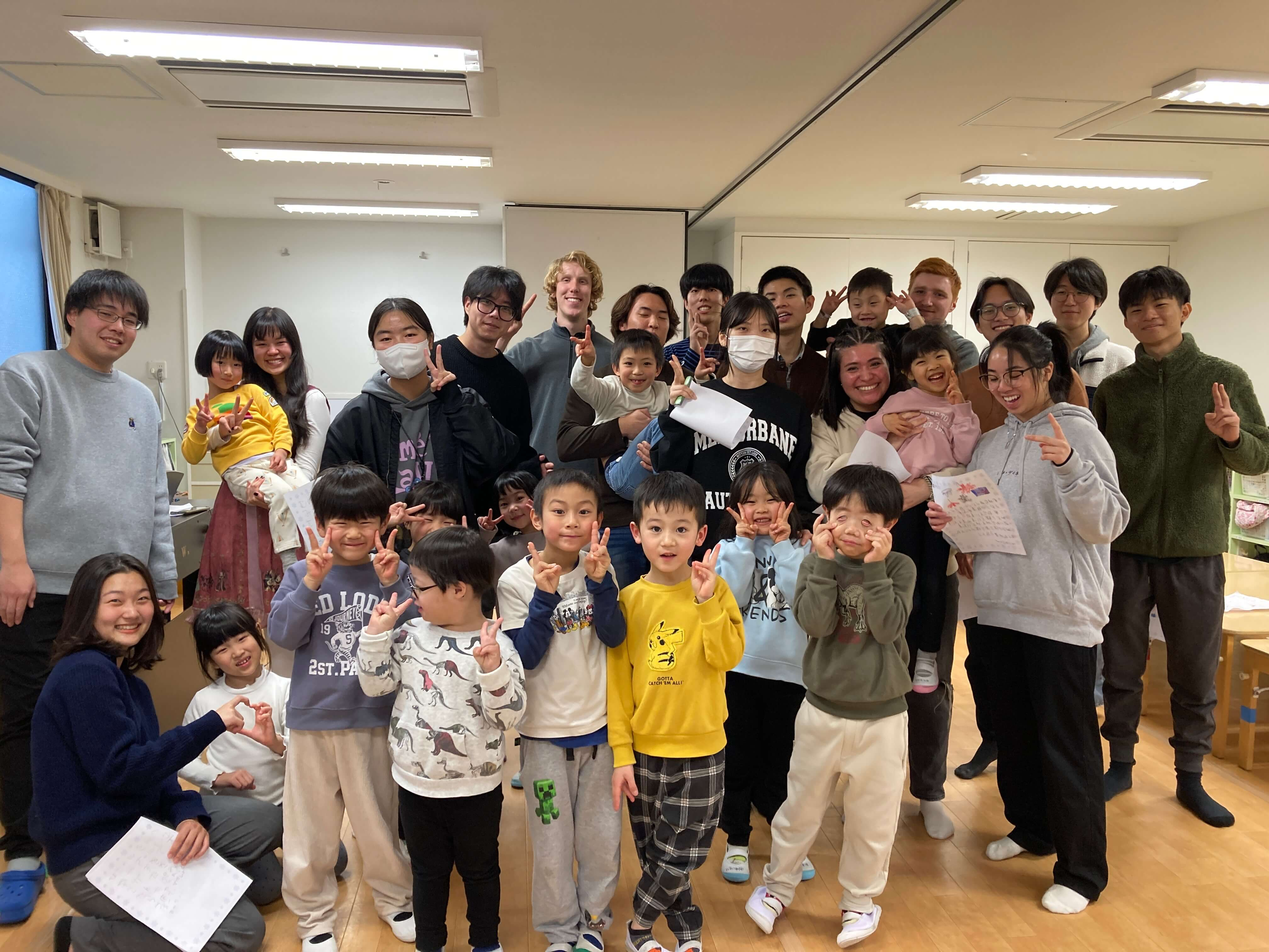
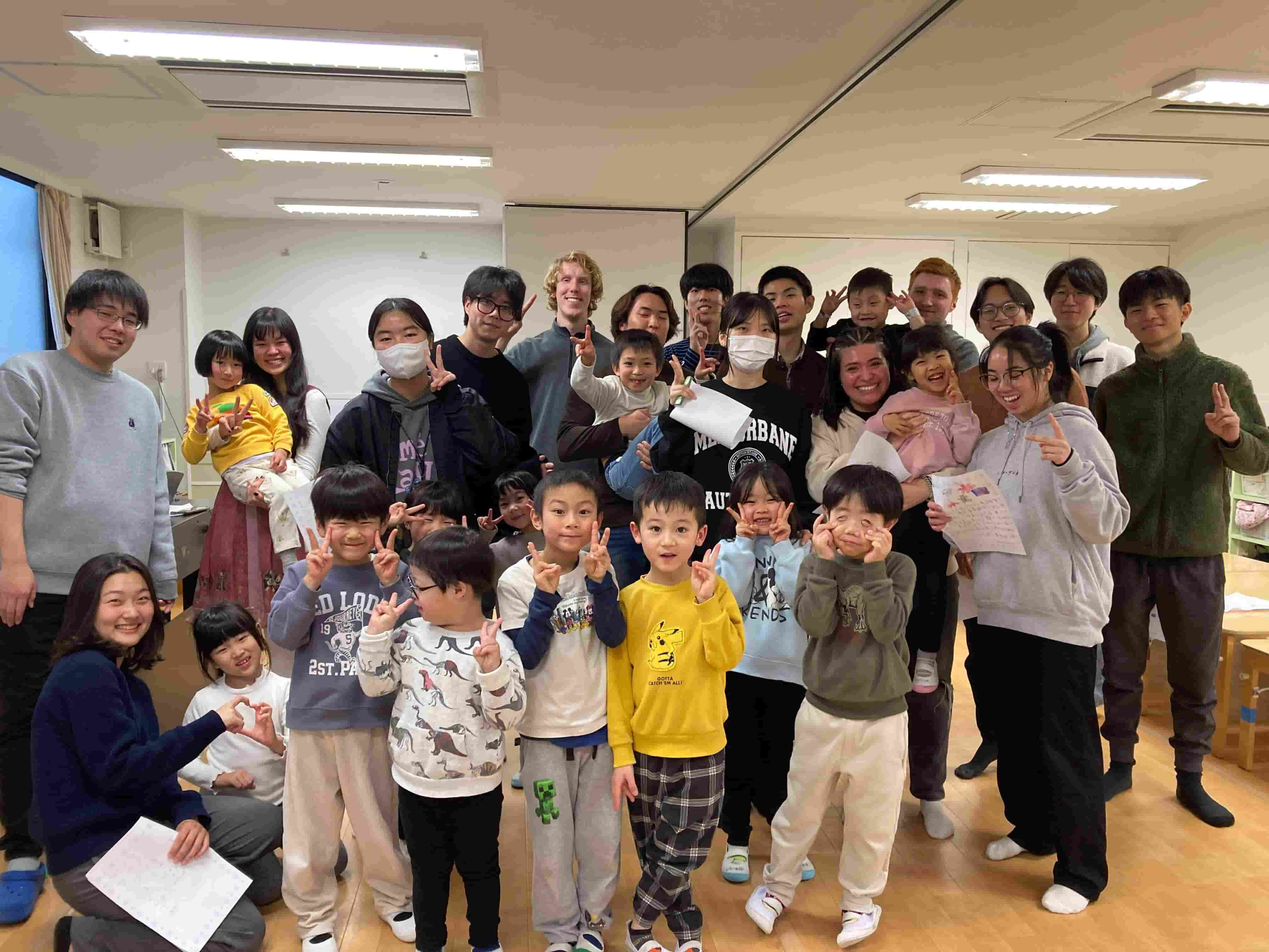
Re-compressed images for faster loading speeds

diff --git a/src/pages/Work.jsx b/src/pages/Work.jsx
@@ -9,11 +9,11 @@ const caseStudies = [
     tags: ['Accessibility', 'Hardware', 'Learning'],
     summary: 'A hardware-integrated braille learning platform for visually impaired children, pairing a 3D-printed device and Raspberry Pi with a Flask backend and a React frontend with audio feedback. Built in 48 hours by a team of 7 at Hornet Hacks 4.0, it won 1st Place in Open Innovation.',
     images: [
-      '/assets/senso-4.png',
-      '/assets/senso-1.png',
-      '/assets/senso-2.png',
-      '/assets/senso-3.JPG',
-      '/assets/senso-5.png',
+      '/assets/senso-4.jpg',
+      '/assets/senso-1.jpg',
+      '/assets/senso-2.jpg',
+      '/assets/senso-3.jpg',
+      '/assets/senso-5.jpg',
     ],
     links: [
       { label: 'GitHub', href: 'https://github.com/g35k/senso' },
@@ -34,10 +34,10 @@ const caseStudies = [
     tags: ['Sustainability', 'Multicultural', 'Education'],
     summary: "A semester-long project from my study abroad at Yokohama National University, where my international class taught the Sustainable Development Goals to children at Gumyoji Daycare, fully in Japanese, through hands-on activities. Pre and post surveys showed a 60% increase in the children's SDG knowledge.",
     images: [
-      '/assets/sdg-1.JPG',
-      '/assets/sdg-2.JPG',
-      '/assets/sdg-3.JPG',
-      '/assets/sdg-4.JPG',
+      '/assets/sdg-1.jpg',
+      '/assets/sdg-2.jpg',
+      '/assets/sdg-3.jpg',
+      '/assets/sdg-4.jpg',
     ],
     sections: [
       { heading: 'Problem',        body: "Children at Gumyoji Daycare needed education on the SDGs. It matters to start in childhood so the goals stick, and Japan puts real emphasis on meeting its own SDG targets." },
@@ -54,10 +54,10 @@ const caseStudies = [
     tags: ['Sustainability', 'Education', 'Web'],
     summary: 'A student-run materials exchange that connects students with used textbooks and supplies to cut waste and cost. The frontend MVP was designed and shipped in 48 hours at Hornet Hacks 3.0 and won 1st Place in Sustainability.',
     images: [
-      '/assets/handitdown-2.png',
-      '/assets/handitdown-1.png',
+      '/assets/handitdown-2.jpg',
+      '/assets/handitdown-1.jpg',
       '/assets/handitdown-3.jpg',
-      '/assets/handitdown-4.JPG',
+      '/assets/handitdown-4.jpg',
     ],
     links: [
       { label: 'Live demo', href: 'https://handitdown.netlify.app/' },
@@ -79,10 +79,10 @@ const caseStudies = [
     tags: ['Health', 'App', 'Client'],
     summary: 'A client-based capstone app for a local pelvic floor physical therapist, replacing handwritten exercise slips with a scalable web and mobile platform. Therapists assign home exercise programs, patient progress is tracked in real time, and the app is released on the iOS App Store.',
     images: [
-      '/assets/floora-2.jpeg',
-      '/assets/floora-1.jpeg',
-      '/assets/floora-3.jpeg',
-      '/assets/floora-4.JPG',
+      '/assets/floora-2.jpg',
+      '/assets/floora-1.jpg',
+      '/assets/floora-3.jpg',
+      '/assets/floora-4.jpg',
     ],
     links: [
       { label: 'App Store', href: 'https://apps.apple.com/us/app/floora-hep/id6765753234' },
@@ -103,10 +103,10 @@ const caseStudies = [
     tags: ['Sustainability', 'Education', 'Interactive'],
     summary: 'An interactive, kid-friendly web app that teaches the UN Sustainable Development Goals through mini-games, short content, and a live leaderboard. Built at Hornet Hacks 2.0 with a React frontend and Django REST backend, and scoped to children in California.',
     images: [
-      '/assets/futurespark-4.JPG',
+      '/assets/futurespark-4.jpg',
       '/assets/futurespark-1.jpg',
       '/assets/futurespark-2.jpg',
-      '/assets/futurespark-3.JPG',
+      '/assets/futurespark-3.jpg',
     ],
     links: [
       { label: 'GitHub', href: 'https://github.com/isg28/FutureSparks' },

diff --git a/src/pages/Home.jsx b/src/pages/Home.jsx
@@ -11,7 +11,7 @@ const projects = [
     hook: 'What if learning Braille could be more interactive and accessible?',
     summary:
       'Led a six-person team in developing a tactile learning device and companion web platform, from early concept to a competition-winning prototype.',
-    image: '/assets/senso-5.png',
+    image: '/assets/senso-5.jpg',
     imageAlt: 'Senso Braille learning system prototype',
   },
   {
@@ -22,7 +22,7 @@ const projects = [
     hook: 'How can sustainability education connect students across cultures?',
     summary:
       'Led approximately 20 international students in planning and delivering three sustainability workshops for Japanese daycare students during an exchange at Yokohama National University.',
-    image: '/assets/sdg-3.JPG',
+    image: '/assets/sdg-3.jpg',
     imageAlt: 'Sustainability workshop in Japan',
   },
   {
@@ -33,7 +33,7 @@ const projects = [
     hook: 'Could a campus marketplace make reusing student materials the easier choice?',
     summary:
       'Led a five-person team in building a student exchange MVP, prioritizing core features to turn an idea into a working product.',
-    image: '/assets/handitdown-2.png',
+    image: '/assets/handitdown-2.jpg',
     imageAlt: 'Hand It Down student exchange platform',
   },
 ]
@@ -56,7 +56,7 @@ export default function Home() {
           </div>
 
           <div className="hero-portrait">
-            <img src="/assets/headshot.png" alt="Kayla Garibay" />
+            <img src="/assets/headshot.jpg" alt="Kayla Garibay" />
           </div>
         </div>
       </section>

diff --git a/src/pages/About.jsx b/src/pages/About.jsx
@@ -2,11 +2,11 @@ import { useState, useEffect, useCallback, useRef } from 'react'
 import '../styles/about.css'
 
 const aboutImages = [
-  '/assets/abtme-1.JPG',
+  '/assets/abtme-1.jpg',
   '/assets/abtme-2.jpg',
-  '/assets/abtme-3.JPG',
-  '/assets/senso-3.JPG',
-  '/assets/abtme-4.JPG',
+  '/assets/abtme-3.jpg',
+  '/assets/senso-3.jpg',
+  '/assets/abtme-4.jpg',
 ]
 
 const timeline = [
